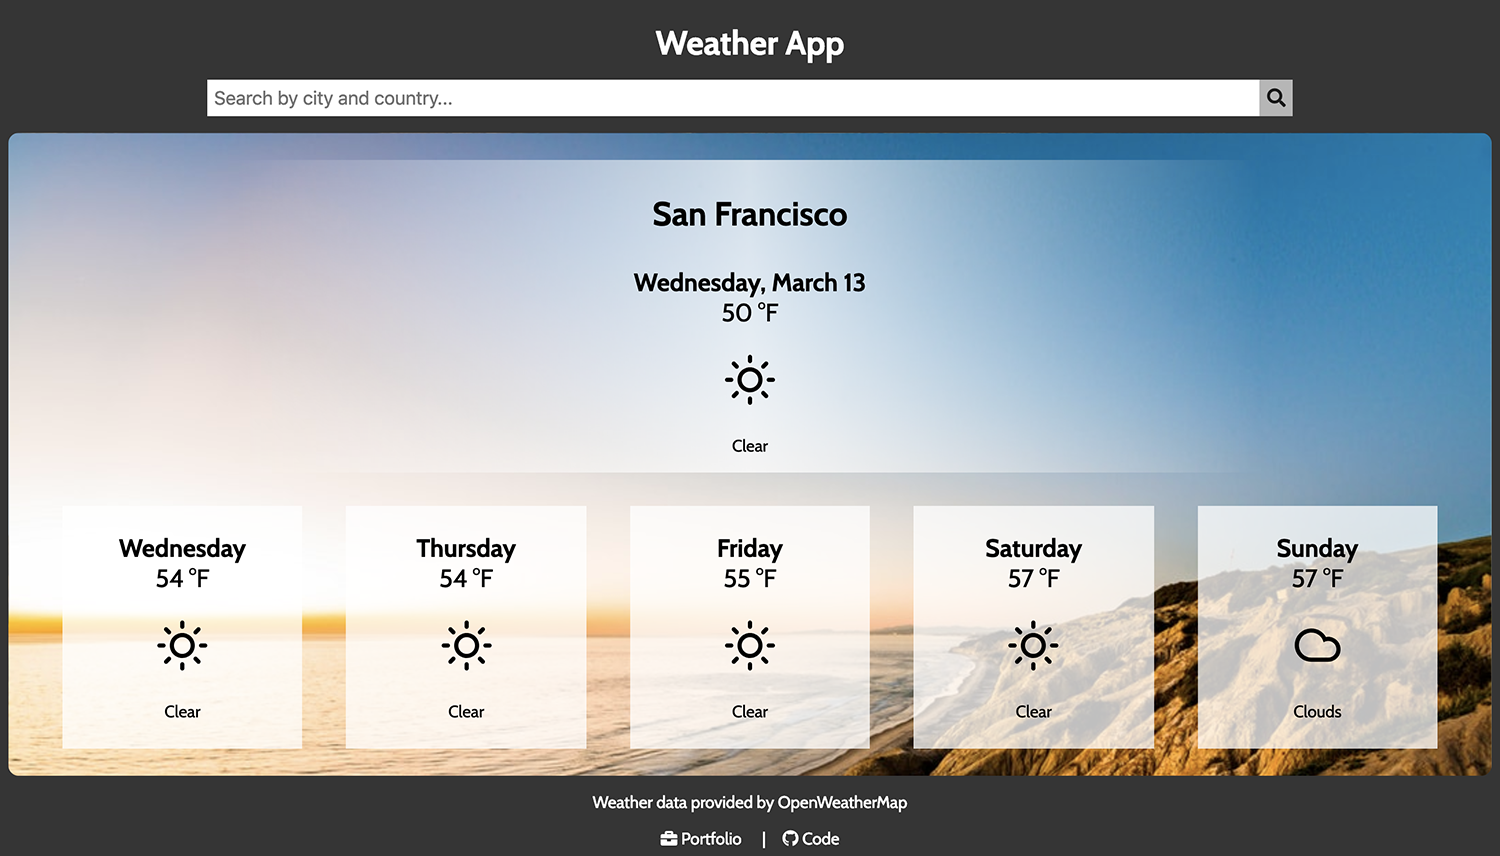
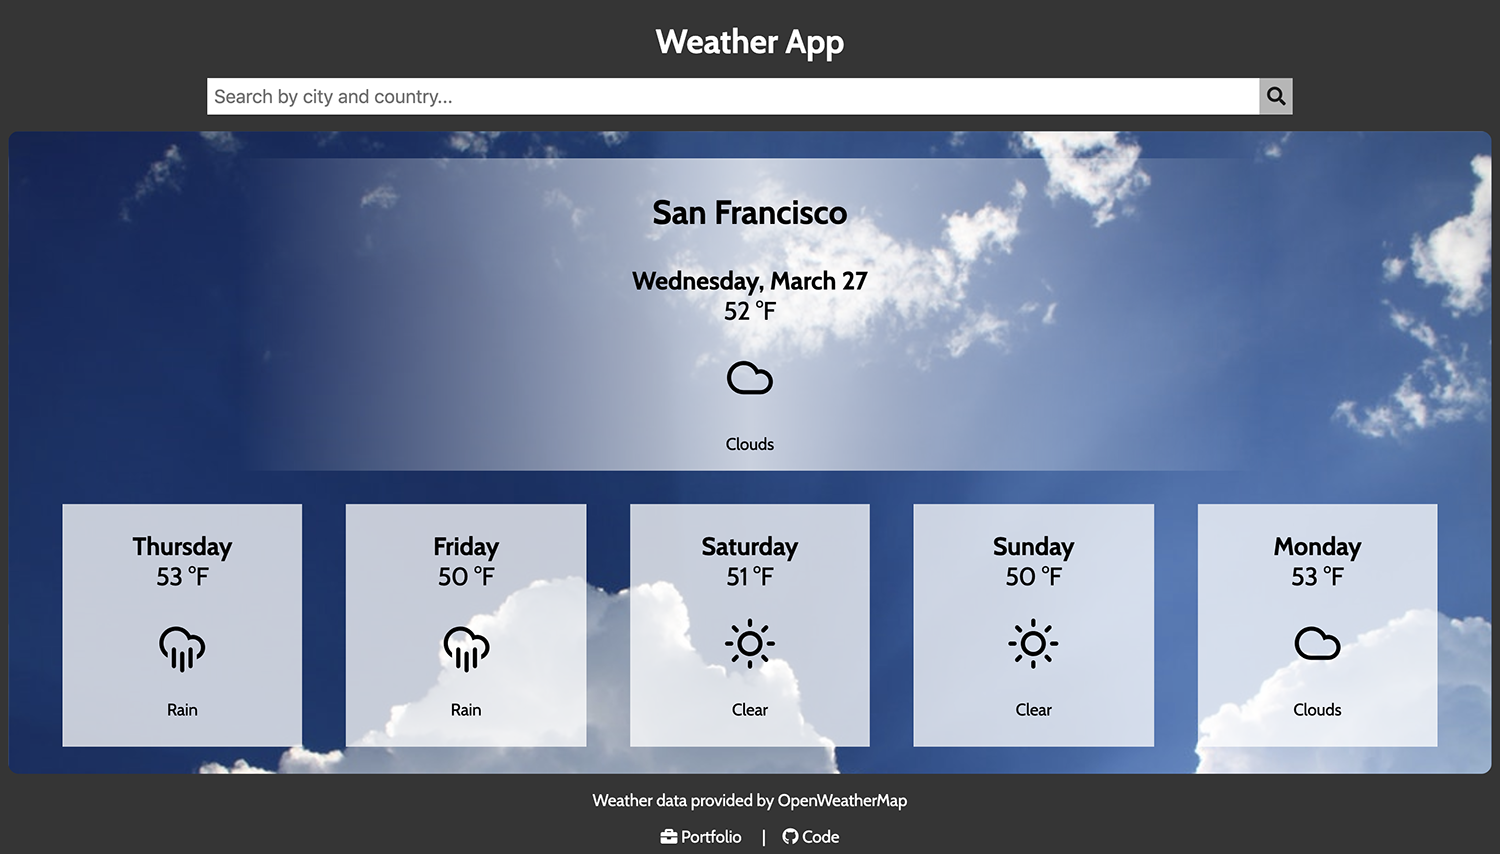
Cleaned up code, adjusted CSS, and updated images.

diff --git a/bundle.js b/bundle.js
@@ -154,7 +154,7 @@ eval("\n\nObject.defineProperty(exports, \"__esModule\", {\n  value: true\n});\n
 /***/ (function(module, exports, __webpack_require__) {
 
 "use strict";
-eval("\n\nObject.defineProperty(exports, \"__esModule\", {\n  value: true\n});\n\nvar _react = __webpack_require__(/*! react */ \"./node_modules/react/index.js\");\n\nvar _react2 = _interopRequireDefault(_react);\n\nvar _Works = __webpack_require__(/*! ../styles/Works.scss */ \"./client/src/styles/Works.scss\");\n\nvar _Works2 = _interopRequireDefault(_Works);\n\nfunction _interopRequireDefault(obj) { return obj && obj.__esModule ? obj : { default: obj }; }\n\nvar Works = function Works() {\n  return _react2.default.createElement(\n    'div',\n    { className: _Works2.default.container, id: 'work' },\n    _react2.default.createElement(\n      'h1',\n      null,\n      'Work'\n    ),\n    _react2.default.createElement('hr', null),\n    _react2.default.createElement(\n      'div',\n      { id: _Works2.default.grid },\n      _react2.default.createElement(\n        'div',\n        { className: _Works2.default.panel },\n        _react2.default.createElement(\n          'h2',\n          null,\n          'Mockstarter'\n        ),\n        _react2.default.createElement(\n          'p',\n          { className: _Works2.default.description },\n          'Kickstarter front end mock-up that emulates the form and function of a campaign details page.'\n        ),\n        _react2.default.createElement('img', { src: '/assets/mockstarter-1.png' })\n      ),\n      _react2.default.createElement(\n        'div',\n        { className: _Works2.default.panel },\n        _react2.default.createElement(\n          'h2',\n          null,\n          'MocKEA'\n        ),\n        _react2.default.createElement(\n          'p',\n          { className: _Works2.default.description },\n          'Ikea product page back end mock-up that is optimized and stress-tested to handle high user traffic.'\n        ),\n        _react2.default.createElement('img', { src: '/assets/mockea-1.png' })\n      ),\n      _react2.default.createElement(\n        'div',\n        { className: _Works2.default.panel },\n        _react2.default.createElement(\n          'h2',\n          null,\n          'Weather App'\n        ),\n        _react2.default.createElement(\n          'p',\n          { className: _Works2.default.description },\n          'A simple weather app utilizing the OpenWeatherMap API.'\n        ),\n        _react2.default.createElement('img', { src: '/assets/weather-app-1.png' })\n      )\n    )\n  );\n};\n\nexports.default = Works;\n\n//# sourceURL=webpack:///./client/src/components/Works.jsx?");
+eval("\n\nObject.defineProperty(exports, \"__esModule\", {\n  value: true\n});\n\nvar _react = __webpack_require__(/*! react */ \"./node_modules/react/index.js\");\n\nvar _react2 = _interopRequireDefault(_react);\n\nvar _Works = __webpack_require__(/*! ../styles/Works.scss */ \"./client/src/styles/Works.scss\");\n\nvar _Works2 = _interopRequireDefault(_Works);\n\nfunction _interopRequireDefault(obj) { return obj && obj.__esModule ? obj : { default: obj }; }\n\nvar Works = function Works() {\n  return _react2.default.createElement(\n    'div',\n    { className: _Works2.default.container, id: 'work' },\n    _react2.default.createElement(\n      'h1',\n      null,\n      'Work'\n    ),\n    _react2.default.createElement('hr', null),\n    _react2.default.createElement(\n      'div',\n      { id: _Works2.default.grid },\n      _react2.default.createElement(\n        'div',\n        { className: _Works2.default.panel },\n        _react2.default.createElement(\n          'h2',\n          null,\n          'Mockstarter'\n        ),\n        _react2.default.createElement(\n          'p',\n          { className: _Works2.default.description },\n          'Kickstarter front end mock-up that emulates the form and function of a campaign details page.'\n        ),\n        _react2.default.createElement('img', { src: 'assets/mockstarter-1.png' })\n      ),\n      _react2.default.createElement(\n        'div',\n        { className: _Works2.default.panel },\n        _react2.default.createElement(\n          'h2',\n          null,\n          'MocKEA'\n        ),\n        _react2.default.createElement(\n          'p',\n          { className: _Works2.default.description },\n          'Ikea product page back end mock-up that is optimized and stress-tested to handle high user traffic.'\n        ),\n        _react2.default.createElement('img', { src: 'assets/mockea-1.png' })\n      ),\n      _react2.default.createElement(\n        'div',\n        { className: _Works2.default.panel },\n        _react2.default.createElement(\n          'h2',\n          null,\n          'Weather App'\n        ),\n        _react2.default.createElement(\n          'p',\n          { className: _Works2.default.description },\n          'A simple weather app utilizing the OpenWeatherMap API.'\n        ),\n        _react2.default.createElement('img', { src: 'assets/weather-app-1.png' })\n      )\n    )\n  );\n};\n\nexports.default = Works;\n\n//# sourceURL=webpack:///./client/src/components/Works.jsx?");
 
 /***/ }),
 
@@ -298,7 +298,7 @@ eval("exports = module.exports = __webpack_require__(/*! ../../../node_modules/c
 /*! no static exports found */
 /***/ (function(module, exports, __webpack_require__) {
 
-eval("exports = module.exports = __webpack_require__(/*! ../../../node_modules/css-loader/lib/css-base.js */ \"./node_modules/css-loader/lib/css-base.js\")(false);\n// imports\n\n\n// module\nexports.push([module.i, \"div._3F0wxDUC65VsxUsGYyhy1 {\\n  color: #ffffff;\\n  width: 100%; }\\n\\ndiv._2RzT8IOZ91eVMZMZIrIPJ {\\n  padding: 10em 5em;\\n  font-size: 1.5vw; }\\n  div._2RzT8IOZ91eVMZMZIrIPJ h1 {\\n    font-weight: normal;\\n    font-size: 3.5em;\\n    margin: 0.5em 0;\\n    text-shadow: 0px 2px 4px #000000; }\\n  div._2RzT8IOZ91eVMZMZIrIPJ hr {\\n    border: 0;\\n    height: 1px;\\n    width: 100%;\\n    background-image: linear-gradient(to right, rgba(0, 0, 0, 0), rgba(0, 0, 0, 0.75), rgba(0, 0, 0, 0)); }\\n  div._2RzT8IOZ91eVMZMZIrIPJ p {\\n    font-size: 2.8em;\\n    margin: 0.5em 0;\\n    text-shadow: 2px 2px 4px #000000; }\\n  div._2RzT8IOZ91eVMZMZIrIPJ a:visited {\\n    color: #ffffff; }\\n  div._2RzT8IOZ91eVMZMZIrIPJ #_2-4qVDXMWnjiGgAhUquwWq {\\n    color: #ffffff;\\n    display: none;\\n    font-size: 4em; }\\n  @media screen and (max-width: 768px) {\\n    div._2RzT8IOZ91eVMZMZIrIPJ {\\n      font-size: 0.8em;\\n      height: 100vh;\\n      padding: 0 5em;\\n      display: flex;\\n      flex-direction: column;\\n      justify-content: center;\\n      position: relative; }\\n      div._2RzT8IOZ91eVMZMZIrIPJ #_2-4qVDXMWnjiGgAhUquwWq {\\n        display: block;\\n        font-size: 4em;\\n        position: absolute;\\n        bottom: 0;\\n        align-self: center; } }\\n\\ndiv._2YsK5Eo_jvRIyDbNcoFazq {\\n  margin: 1em;\\n  background-color: #ffffff;\\n  padding: 2em 1em;\\n  text-align: left;\\n  display: flex;\\n  flex-direction: column; }\\n  @media screen and (max-width: 768px) {\\n    div._2YsK5Eo_jvRIyDbNcoFazq {\\n      margin: 0;\\n      padding: 0 1.5em; } }\\n\", \"\"]);\n\n// exports\nexports.locals = {\n\t\"container\": \"_3F0wxDUC65VsxUsGYyhy1\",\n\t\"cover\": \"_2RzT8IOZ91eVMZMZIrIPJ\",\n\t\"arrow\": \"_2-4qVDXMWnjiGgAhUquwWq\",\n\t\"wrapper\": \"_2YsK5Eo_jvRIyDbNcoFazq\"\n};\n\n//# sourceURL=webpack:///./client/src/styles/Main.scss?./node_modules/css-loader??ref--6-1!./node_modules/sass-loader/lib/loader.js??ref--6-2");
+eval("exports = module.exports = __webpack_require__(/*! ../../../node_modules/css-loader/lib/css-base.js */ \"./node_modules/css-loader/lib/css-base.js\")(false);\n// imports\n\n\n// module\nexports.push([module.i, \"div._3F0wxDUC65VsxUsGYyhy1 {\\n  color: #ffffff;\\n  width: 100%; }\\n\\ndiv._2RzT8IOZ91eVMZMZIrIPJ {\\n  padding: 10em 5em;\\n  font-size: 1.5vw; }\\n  div._2RzT8IOZ91eVMZMZIrIPJ h1 {\\n    font-weight: normal;\\n    font-size: 3.5em;\\n    margin: 0.5em 0;\\n    text-shadow: 0px 2px 4px #000000; }\\n  div._2RzT8IOZ91eVMZMZIrIPJ hr {\\n    border: 0;\\n    height: 1px;\\n    width: 100%;\\n    background-image: linear-gradient(to right, rgba(0, 0, 0, 0), rgba(0, 0, 0, 0.75), rgba(0, 0, 0, 0)); }\\n  div._2RzT8IOZ91eVMZMZIrIPJ p {\\n    font-size: 2.8em;\\n    margin: 0.5em 0;\\n    text-shadow: 2px 2px 4px #000000; }\\n  div._2RzT8IOZ91eVMZMZIrIPJ a:visited {\\n    color: #ffffff; }\\n  div._2RzT8IOZ91eVMZMZIrIPJ #_2-4qVDXMWnjiGgAhUquwWq {\\n    color: #ffffff;\\n    display: none;\\n    font-size: 4em; }\\n  @media screen and (max-width: 768px) {\\n    div._2RzT8IOZ91eVMZMZIrIPJ {\\n      font-size: 0.8em;\\n      height: 100vh;\\n      padding: 0 5em;\\n      display: flex;\\n      flex-direction: column;\\n      justify-content: center;\\n      position: relative; }\\n      div._2RzT8IOZ91eVMZMZIrIPJ #_2-4qVDXMWnjiGgAhUquwWq {\\n        display: block;\\n        font-size: 4em;\\n        position: absolute;\\n        bottom: 0;\\n        align-self: center; } }\\n\\ndiv._2YsK5Eo_jvRIyDbNcoFazq {\\n  margin: 1em;\\n  border-radius: 2px;\\n  background-color: #ffffff;\\n  padding: 2em 1em;\\n  text-align: left;\\n  display: flex;\\n  flex-direction: column; }\\n  @media screen and (max-width: 768px) {\\n    div._2YsK5Eo_jvRIyDbNcoFazq {\\n      margin: 0;\\n      padding: 0 1.5em; } }\\n\", \"\"]);\n\n// exports\nexports.locals = {\n\t\"container\": \"_3F0wxDUC65VsxUsGYyhy1\",\n\t\"cover\": \"_2RzT8IOZ91eVMZMZIrIPJ\",\n\t\"arrow\": \"_2-4qVDXMWnjiGgAhUquwWq\",\n\t\"wrapper\": \"_2YsK5Eo_jvRIyDbNcoFazq\"\n};\n\n//# sourceURL=webpack:///./client/src/styles/Main.scss?./node_modules/css-loader??ref--6-1!./node_modules/sass-loader/lib/loader.js??ref--6-2");
 
 /***/ }),
 
